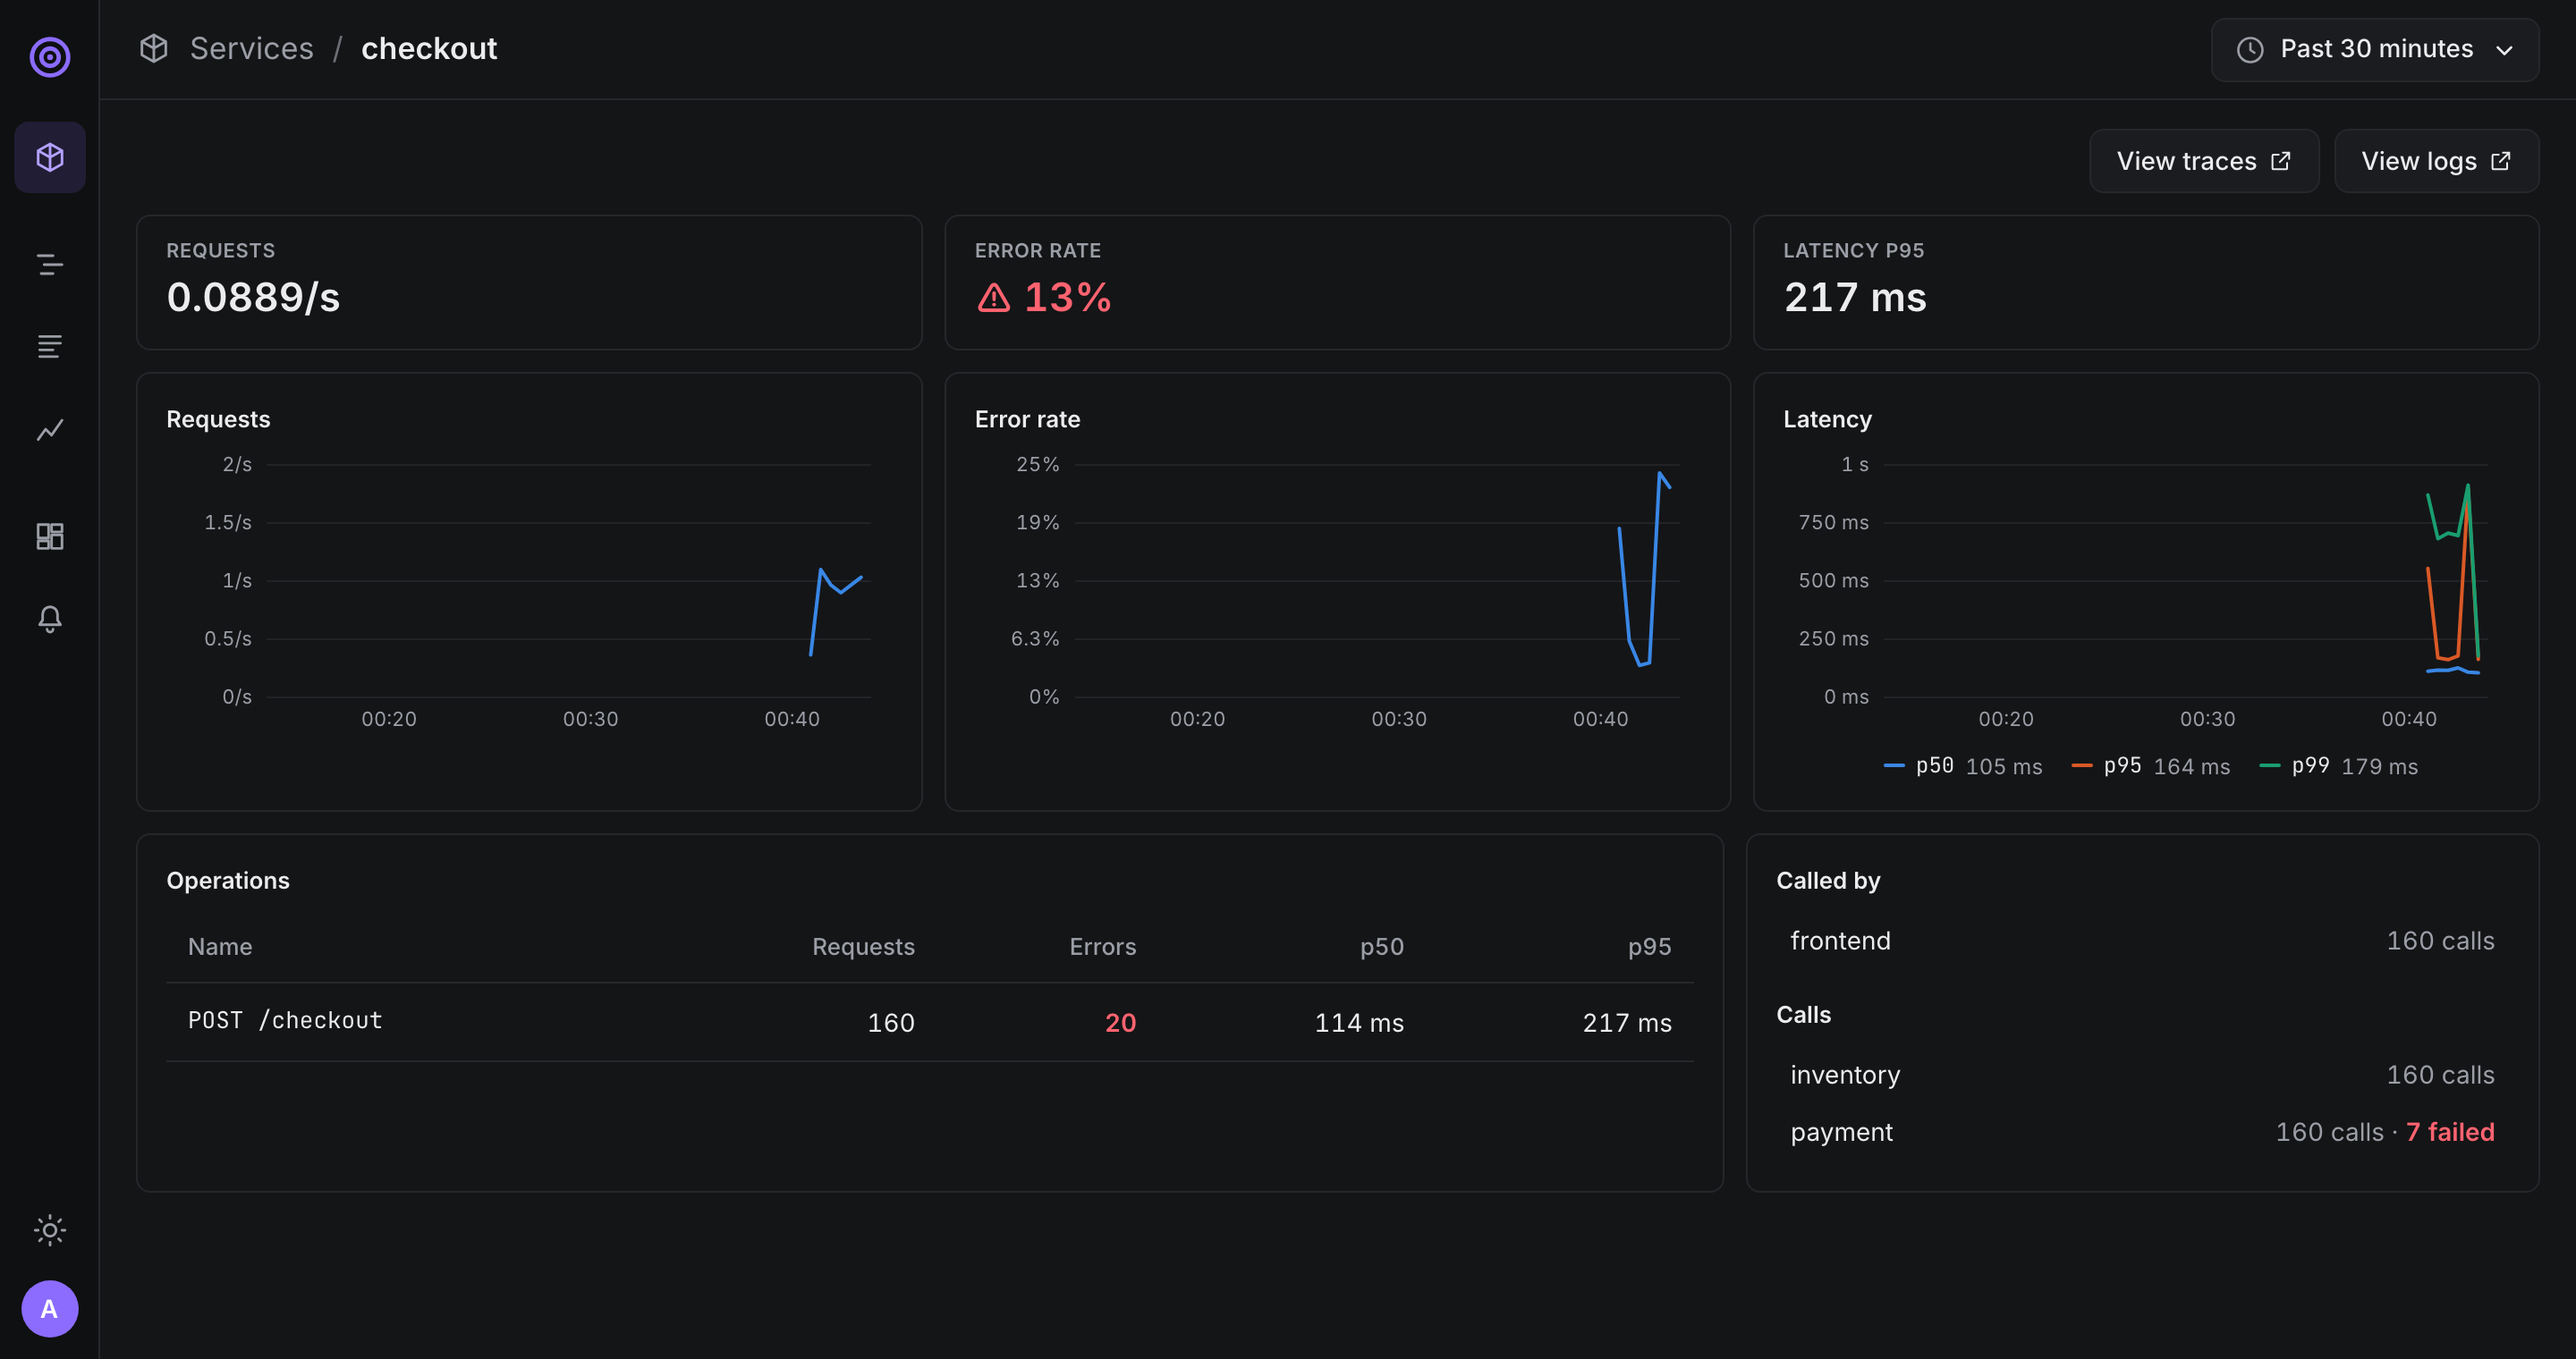
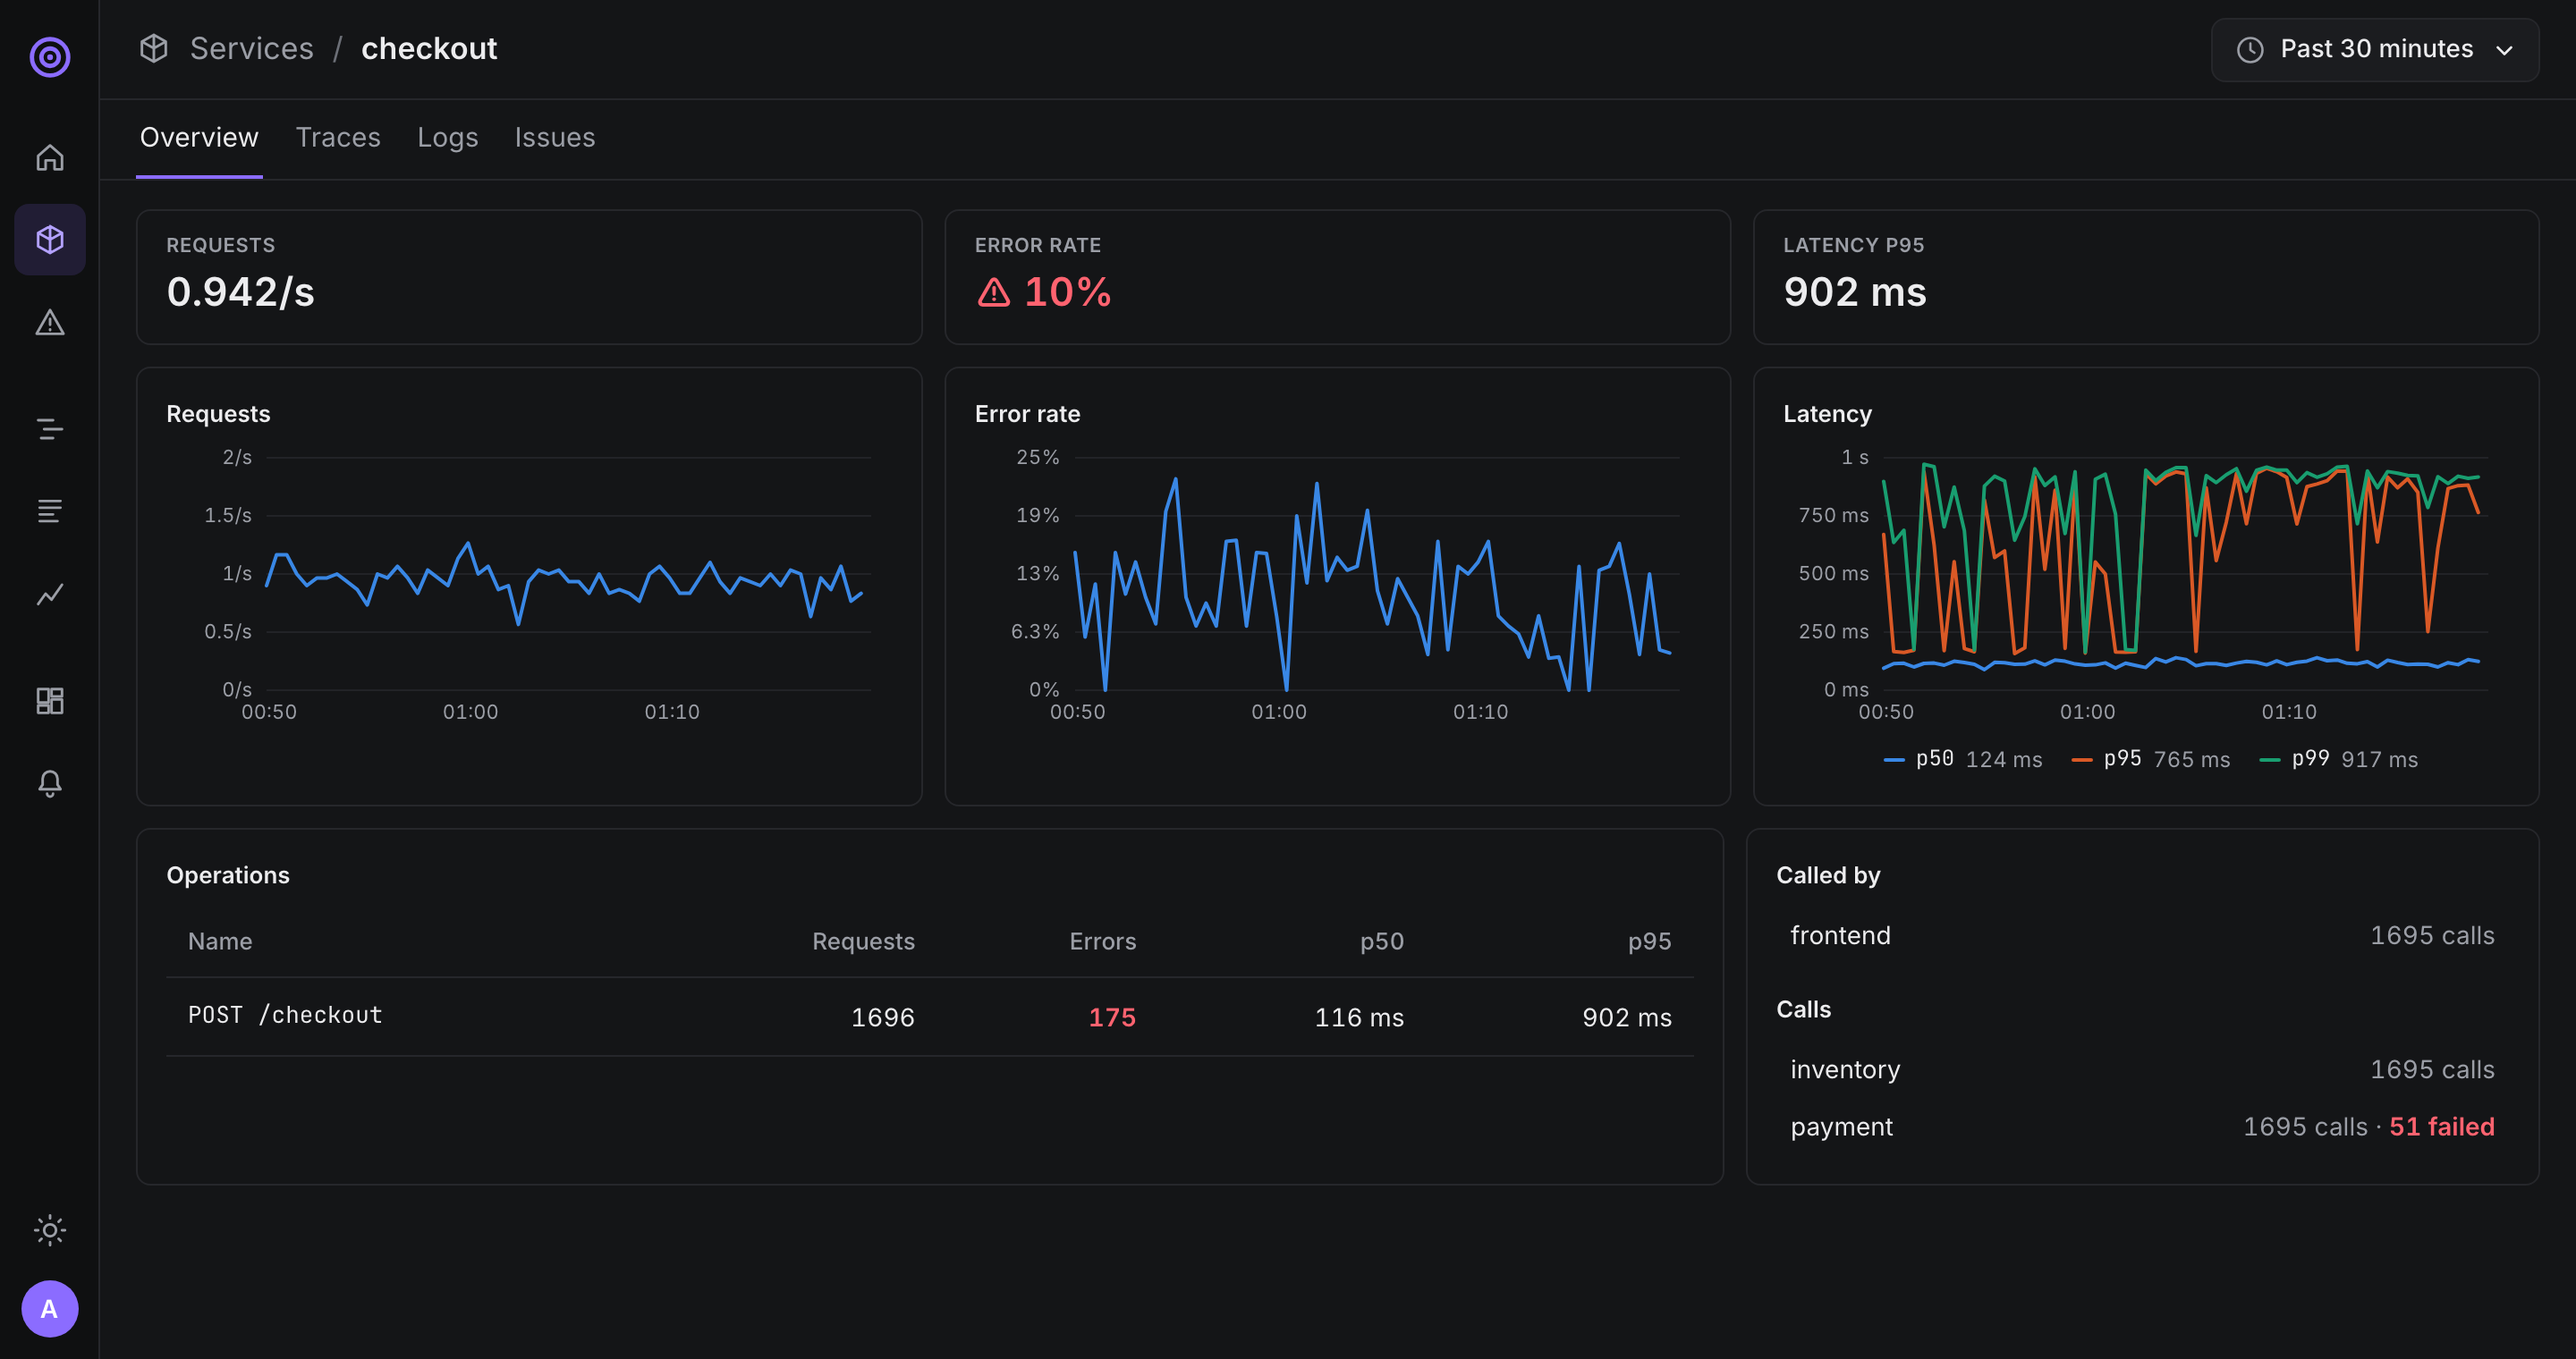
docs: show Home, Issues, Compare and the command palette in the README
The screenshot script now captures the new pages, can act on a page
before the capture (open the value menu or the palette), and picks the
issue to show from the API. Home replaces Services as the hero image.

docs/UX.md records the audit after the five steps and the game day
result: the cause of the demo incident is found in 3 clicks without a
query, against about 9 clicks and one query before.

diff --git a/README.md b/README.md
@@ -26,8 +26,8 @@
 </p>
 
 <picture>
-  <source media="(prefers-color-scheme: light)" srcset="docs/images/services-light.png">
-  <img src="docs/images/services.png" alt="The obsrv Services page: a service map of frontend, checkout, inventory and payment, and a table of request rates, error rates and latency percentiles">
+  <source media="(prefers-color-scheme: light)" srcset="docs/images/home-light.png">
+  <img src="docs/images/home.png" alt="The obsrv Home page: checkout and payment are red because their latency rose sixfold, two alerts are firing, and new or rising issues are listed">
 </picture>
 
 > [!WARNING]
@@ -51,22 +51,52 @@
 
 ## A quick tour
 
+### Know what is wrong as soon as you arrive
+
+*Home* compares every service with the previous period and says why it needs attention: more
+errors, slower requests. Firing alerts and new or rising issues sit next to it.
+
+### See errors as a short list of problems
+
+*Issues* groups errors by message, keeps only the spans where an error starts, and tells whether
+each problem is new or rising.
+
+![The Issues page with the card declines of the payment service opened in a side panel](docs/images/issues.png)
+
+### Find what errors have in common, without a query
+
+*Compare* shows which attributes are over-represented in errors, or in a period you drag across a
+chart. Here, most failing payments go through one bank, `acme-bank`. Click any value to filter on
+it, exclude it, or open its logs or traces.
+
+![The Compare tab: payment.issuer acme-bank and HTTP status 503 are over-represented in spans in error, with the value menu open](docs/images/compare.png)
+
+### Go anywhere from the keyboard
+
+`Ctrl/⌘ K` opens a page, a service, a metric or a trace ID. `/` focuses search, `[` and `]` move the time range.
+
+![The command palette listing the pages of obsrv](docs/images/palette.png)
+
 ### Follow a request across services
 
 The waterfall shows where the time went and where it failed. The logs of the trace are listed under it.
 
 ![A trace waterfall: the payment service was slow and then refused the card, so checkout failed](docs/images/trace.png)
 
-### See every service at a glance
+### See every signal of a service in one place
 
-Each service has its own page: request rate, error rate and latency over time, its operations, and
-the services it calls or is called by.
+Each service has its own page: request rate, error rate and latency over time, its operations, the
+services it calls or is called by, and tabs with its traces, logs and issues. The *Services* page
+draws the map of who calls whom.
+
+![The Services page: a service map of frontend, checkout, inventory and payment, and a table of request rates, error rates and latency percentiles](docs/images/services.png)
 
 ![The checkout service page with request, error rate and latency charts, operations and dependencies](docs/images/service.png)
 
 ### Search logs
 
-Search with a short syntax, see the volume by severity, and open any line to see its attributes and its trace.
+Search with a short syntax, see the volume by severity, drag across the chart to zoom, and open any
+line to see its attributes and its trace.
 
 ![The logs page with a volume histogram by severity and a list of log records](docs/images/logs.png)
 

diff --git a/docs/UX.md b/docs/UX.md
@@ -46,6 +46,20 @@ Notre [DESIGN.md](DESIGN.md) promet déjà plusieurs de ces principes, mais **l'
 
 Le constat : **l'apparence est bonne, le parcours ne l'est pas encore.** On a une belle interface de consultation, pas encore une interface de diagnostic.
 
+**Mise à jour du 2026-10-09, après les 5 étapes du plan (§7) :**
+
+| Promesse ou leçon | État |
+|---|---|
+| « Everything is clickable » | ✅ Menu de valeur sur les services, niveaux, attributs, valeurs de Compare et d'Issues |
+| « Dragging across a chart zooms » | ✅ Sur les graphiques de séries et l'histogramme des logs |
+| « Keyboard first » | 🟡 Cmd+K, `/`, `[` et `]` ; `j`/`k` dans les listes reste à faire |
+| Vue d'ensemble « feu tricolore » | ✅ Home : santé par service, comparée à la période précédente, avec la raison |
+| Expliquer ce qui diffère | ✅ Onglet Compare dans les explorateurs de logs et de traces |
+| Regrouper les erreurs | ✅ Page Issues : empreinte des messages, origine des erreurs de spans, statut New / Rising |
+| Une ressource, tous ses signaux | ✅ La page service est un hub : Overview, Traces, Logs, Issues |
+| Explorer sans écrire de requête | 🟡 Plus de requête dans le parcours de diagnostic ; la liste des métriques reste brute |
+| Bascule entre signaux | ✅ « View logs / traces with this value » depuis n'importe quelle valeur |
+
 ## 4. Notre thèse : une UI de diagnostic, pas un catalogue de données
 
 > **obsrv répond à « qu'est-ce qui ne va pas, et pourquoi ? » en moins de 5 clics, sans écrire une requête.**
@@ -135,6 +149,19 @@ Le scénario de la démo est le suivant : la banque de paiement ralentit et refu
 |---|---|---|
 | Clics jusqu'à la cause | ~9 (Services → service → Traces → filtre erreur → trace → span → retour → Logs → recherche) | **≤ 4** (Home → issue → Compare → trace) |
 | Requête à écrire | 1 (`service:payment level:error`) | **0** |
+
+**Résultat du game day rejoué le 2026-10-09 sur la démo :**
+
+1. **Home** : « 3 services need attention » ; *payment* est rouge (« p95 ×6 vs previous period ») et
+   l'issue « charge card: card declined by issuer » est listée comme *Rising*. **Clic 1** sur l'issue.
+2. **Issues** : le panneau montre le volume, la période précédente et un exemple.
+   **Clic 2** sur « What do errors have in common? ».
+3. **Compare** (traces de *payment*, erreurs contre le reste) : `payment.issuer = acme-bank` est
+   présent dans 44 à 72 % des spans en erreur contre 16 à 25 % ailleurs, et `http.response.status_code = 503`
+   dans 22 % contre 0 %. La cause est lisible **sans clic de plus**.
+4. Optionnel, **clic 3** : le menu de valeur sur `acme-bank` filtre les traces ou ouvre les logs de cette banque.
+
+**3 clics, 0 requête** contre environ 9 clics et 1 requête avant : la cible (≤ 4) est atteinte.
 
 ## 7. Plan de construction proposé
 

diff --git a/CHANGELOG.md b/CHANGELOG.md
@@ -39,6 +39,18 @@ and this project adheres to [Semantic Versioning](https://semver.org/spec/v2.0.0
 - `-ingest-token` requires OTLP clients to send `Authorization: Bearer <token>`.
 - Redesigned interface: icon rail, light and dark themes, search-first logs explorer with facets,
   collapsible trace waterfall.
+- Diagnostic UX (see `docs/UX.md`):
+  - *Home* page: health of every service compared with the previous period, with the reason,
+    firing alerts, new or rising issues and deployments.
+  - *Issues* page: errors grouped by message template, only where span errors start, with their
+    trend and a *New* / *Rising* / *Ongoing* status.
+  - *Compare* tab in the logs and traces explorers: the attributes over-represented in errors or in
+    a time range dragged on the chart, compared with the rest.
+  - The service page becomes a hub with *Overview*, *Traces*, *Logs* and *Issues* tabs.
+  - A menu on every value: filter, exclude, open the logs or traces with this value, copy.
+  - Drag across a chart to zoom; `Ctrl/⌘ K` command palette, `/` to search, `[` and `]` to shift
+    the time range.
+  - Search syntax for spans in the traces explorer.
 
 ### Security
 

diff --git a/docs/ROADMAP.md b/docs/ROADMAP.md
@@ -26,6 +26,10 @@ groupe, avec délai de confirmation, notifications Slack et webhook, page Alerte
 L'authentification aussi : comptes locaux, sessions, rôles admin/membre, jeton d'ingestion OTLP.
 Reste pour la phase 2 : la connexion OIDC (SSO), les dashboards et la mesure auprès d'équipes pilotes.
 
+L'UI de diagnostic de `UX.md` est livrée (Home, Issues, Compare, hub service, menu de valeur,
+zoom au glisser, palette de commandes). Sur le game day de la démo, on trouve la cause en 3 clics
+et sans requête, contre environ 9 clics avant.
+
 ## Phase 0 — Valider les choix risqués (3–4 semaines)
 
 - Pipeline minimal pour les 3 signaux : OTLP → pdata → WAL → Arrow → Parquet → disque local.
